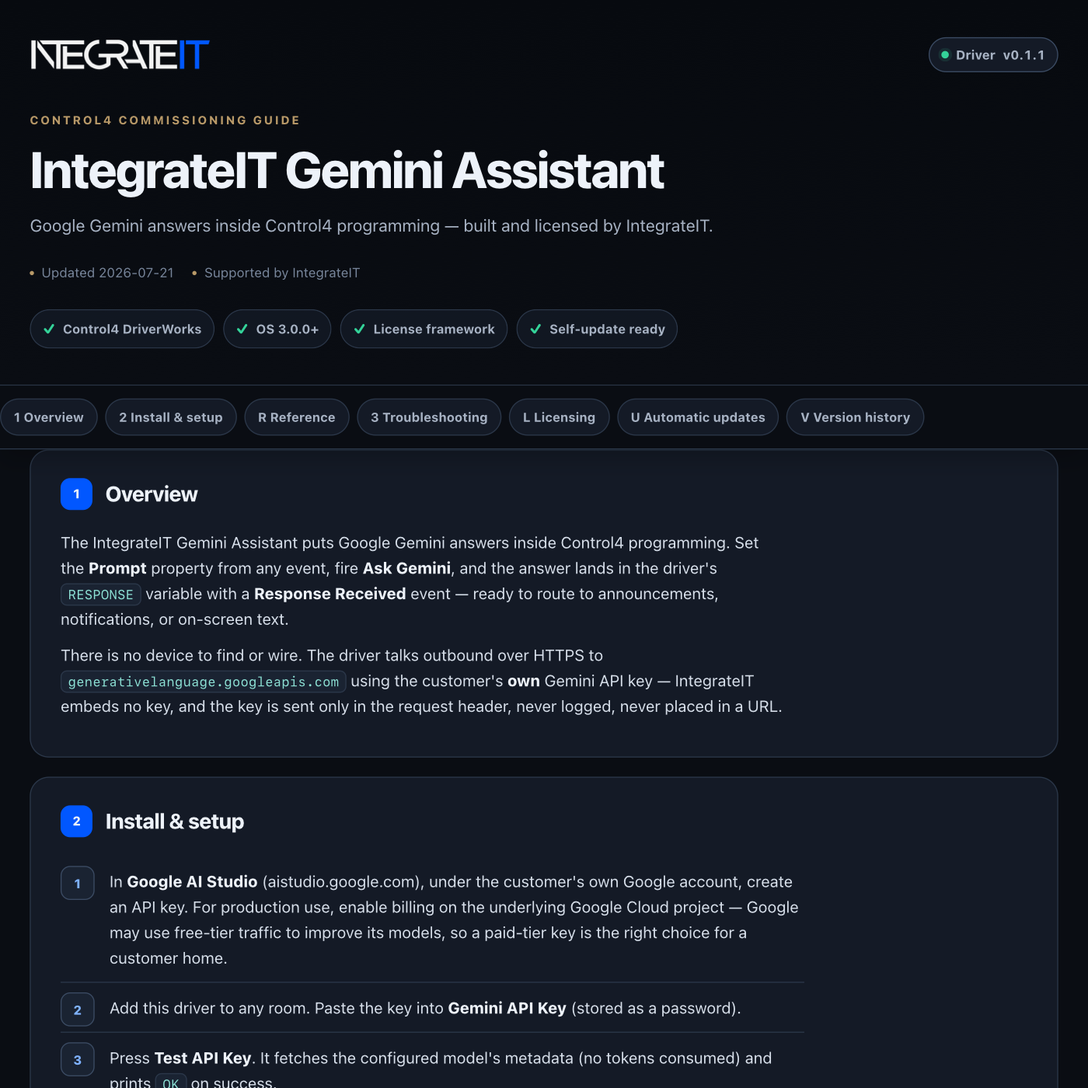
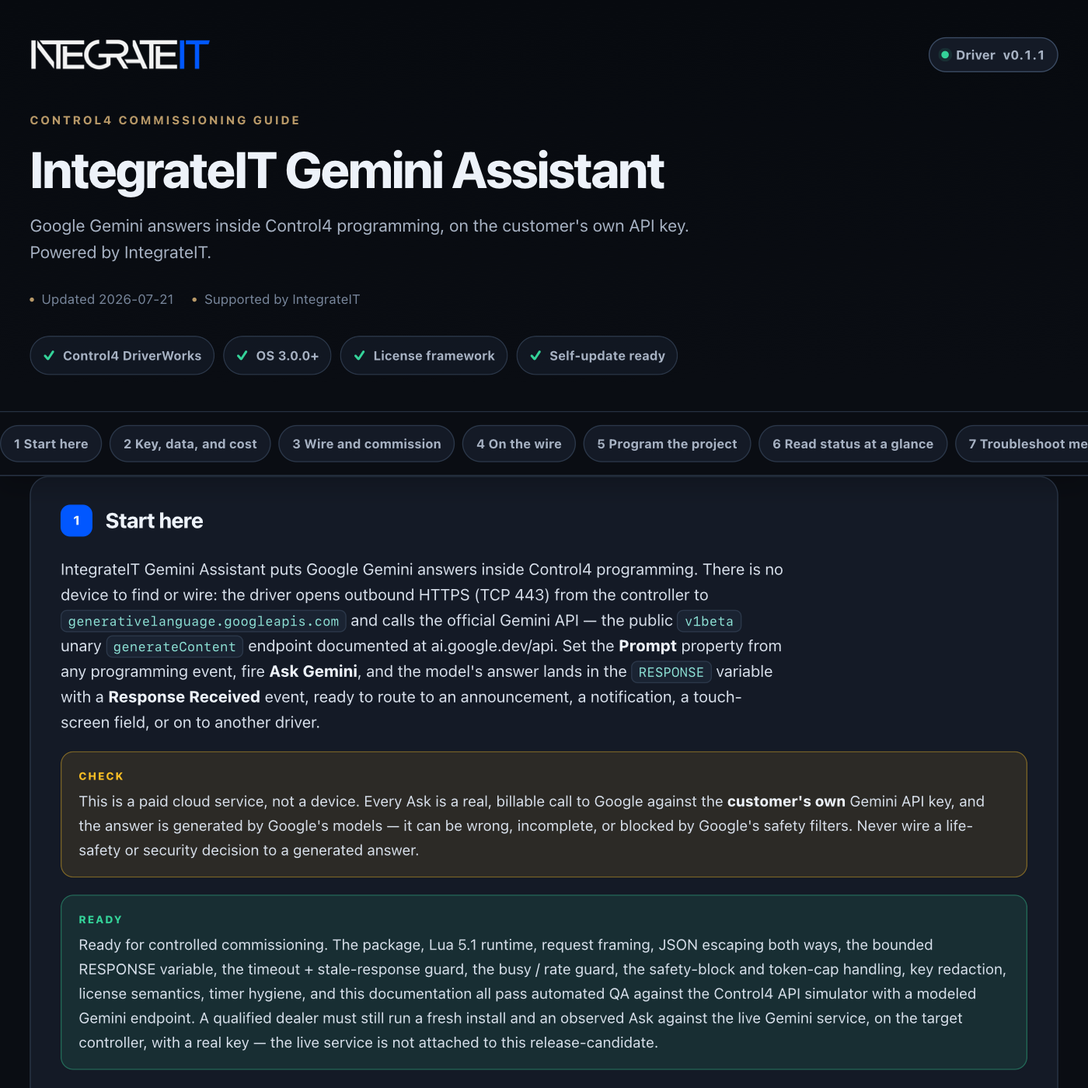
control4: publish driver channel (integrateit_gemini 0.1.2)

diff --git a/control4/integrateit_gemini/documentation.html b/control4/integrateit_gemini/documentation.html
@@ -179,13 +179,13 @@ td code{white-space:normal}
     <div class="wrap">
       <div class="brandbar">
[1 lines of base64/hex data omitted]
-        <span class="version"><span class="word">Driver</span> v0.1.1</span>
+        <span class="version"><span class="word">Driver</span> v0.1.2</span>
       </div>
       <p class="eyebrow">Control4 commissioning guide</p>
       <h1>IntegrateIT Gemini Assistant</h1>
-      <p class="sub">Google Gemini answers inside Control4 programming — built and licensed by IntegrateIT.</p>
+      <p class="sub">Google Gemini answers inside Control4 programming, on the customer's own API key. Powered by IntegrateIT.</p>
       <div class="meta">
-        <span>Updated 2026-07-21</span>
+        <span>Updated 2026-07-26</span>
         <span>Supported by IntegrateIT</span>
       </div>
       <div class="readiness" aria-label="Driver capabilities">
@@ -198,29 +198,140 @@ td code{white-space:normal}
   </header>
 
   <div class="toc-wrap">
-    <nav class="toc wrap" aria-label="Documentation sections"><a href="#overview">1 Overview</a><a href="#install">2 Install &amp; setup</a><a href="#reference">R Reference</a><a href="#troubleshooting">3 Troubleshooting</a><a href="#licensing">L Licensing</a><a href="#updates">U Automatic updates</a><a href="#changelog">V Version history</a></nav>
+    <nav class="toc wrap" aria-label="Documentation sections"><a href="#overview">1 Start here</a><a href="#trust-flow">2 Key, data, and cost</a><a href="#setup">3 Wire and commission</a><a href="#protocol">4 On the wire</a><a href="#programming">5 Program the project</a><a href="#status">6 Read status at a glance</a><a href="#troubleshooting">7 Troubleshoot methodically</a><a href="#trust">8 Ownership, privacy, and licensing</a><a href="#reference">R Reference</a><a href="#licensing">L Licensing</a><a href="#updates">U Automatic updates</a><a href="#changelog">V Version history</a></nav>
   </div>
 
   <main class="wrap">
     <section class="card" id="overview" data-card="overview">
-  <h2><span class="n">1</span> Overview</h2>
-  <p>The IntegrateIT Gemini Assistant puts Google Gemini answers inside Control4 programming. Set the <b>Prompt</b> property from any event, fire <b>Ask Gemini</b>, and the answer lands in the driver's <code>RESPONSE</code> variable with a <b>Response Received</b> event — ready to route to announcements, notifications, or on-screen text.</p>
-  <p>There is no device to find or wire. The driver talks outbound over HTTPS to <code>generativelanguage.googleapis.com</code> using the customer's <b>own</b> Gemini API key — IntegrateIT embeds no key, and the key is sent only in the request header, never logged, never placed in a URL.</p>
+  <h2><span class="n">1</span> Start here</h2>
+  <p>IntegrateIT Gemini Assistant puts Google Gemini answers inside Control4 programming. There is no device to find or wire: the driver opens outbound HTTPS (TCP 443) from the controller to <code>generativelanguage.googleapis.com</code> and calls the official Gemini API — the public <code>v1beta</code> unary <code>generateContent</code> endpoint documented at ai.google.dev/api. Set the <b>Prompt</b> property from any programming event, fire <b>Ask Gemini</b>, and the model's answer lands in the <code>RESPONSE</code> variable with a <b>Response Received</b> event, ready to route to an announcement, a notification, a touch-screen field, or on to another driver.</p>
+  <div class="note warn">This is a paid cloud service, not a device. Every Ask is a real, billable call to Google against the <b>customer's own</b> Gemini API key, and the answer is generated by Google's models — it can be wrong, incomplete, or blocked by Google's safety filters. Never wire a life-safety or security decision to a generated answer.</div>
+  <div class="note good">Ready for controlled commissioning. The package, Lua 5.1 runtime, request framing, JSON escaping both ways, the bounded RESPONSE variable, the timeout + stale-response guard, the busy / rate guard, the safety-block and token-cap handling, key redaction, license semantics, timer hygiene, and this documentation all pass automated QA against the Control4 API simulator with a modeled Gemini endpoint. A qualified dealer must still run a fresh install and an observed Ask against the live Gemini service, on the target controller, with a real key — the live service is not attached to this release-candidate.</div>
+  <p><b>What you get</b></p>
+  <ul>
+    <li>One <b>Ask Gemini</b> command that sends the <b>Prompt</b> property to the configured model and publishes the answer to the <code>RESPONSE</code> variable</li>
+    <li>Bring-your-own-key: the customer's own Gemini API key from Google AI Studio, sent only in the <code>x-goog-api-key</code> request header — never in a URL, never in a variable, never in any log line</li>
+    <li>An optional <b>System Instruction</b> that shapes every answer (persona, language, length, tone)</li>
+    <li>A <b>Max Response Tokens</b> cap that bounds answer length and per-request spend, with an honest <b>Response Truncated</b> event when the cap cuts an answer off</li>
+    <li><b>Response Received</b>, <b>Request Failed</b>, and <b>Response Truncated</b> events, plus a redacted <b>Last Result</b> that names every failure reason</li>
+    <li>A driver-side timeout with a stale-response guard, and a busy / <b>Min Request Interval</b> rate guard so a misfiring programming loop can never flood the API or run up the bill</li>
+    <li>A <b>Test API Key</b> action that proves the key, model, and egress with no tokens consumed</li>
+  </ul>
 </section>
 
-<section class="card" id="install" data-card="install">
-  <h2><span class="n">2</span> Install &amp; setup</h2>
+<section class="card" id="trust-flow" data-card="trust-flow">
+  <h2><span class="n">2</span> Key, data, and cost</h2>
+  <p>This driver is honest about the fact that it is a thin, safe pipe to someone else's paid cloud. Three facts govern it:</p>
+  <ul>
+    <li><b>The key is the customer's.</b> Google's API Terms require the account holder to bring their own key, so <b>Gemini API Key</b> is a password property the customer fills from their own Google AI Studio account. IntegrateIT embeds no key, proxies nothing, and shares nothing. The key travels only in the <code>x-goog-api-key</code> header — it is never placed in the URL, never written to a variable, and never printed, not even with <b>Debug Mode → Print</b> on. Diagnostics show only non-sensitive fields — the model, request/response sizes, and HTTP status — never the key, the prompt, or the answer.</li>
+    <li><b>Prompt data leaves the LAN.</b> When you Ask, the <b>Prompt</b> and, if set, the <b>System Instruction</b> are sent to Google under the customer's key, and Google returns the answer. That is the whole point of a cloud model, but it means anything you put in the prompt is disclosed to Google under the customer's account — treat it accordingly and keep private data out of prompts you would not send to Google.</li>
+    <li><b>The customer pays, and the driver caps the bleed.</b> Every Ask is billed to the customer's own Google account at Google's per-token pricing. The driver cannot see or set that price, but it bounds exposure: one request runs at a time, an Ask inside the <b>Min Request Interval</b> window is refused locally, and <b>Max Response Tokens</b> caps output cost per call. Set a real ceiling in the Google Cloud console — the driver's guards stop runaway loops, not a mispriced month.</li>
+  </ul>
+  <p>An answer that Google cut off at the token cap, and a prompt or answer Google blocked, are both surfaced as exactly what they are (see <b>On the wire</b> and <b>Troubleshoot</b>), never dressed up as a clean success.</p>
+</section>
+
+<section class="card" id="setup" data-card="setup">
+  <h2><span class="n">3</span> Wire and commission</h2>
   <ol class="steps">
-    <li>In <b>Google AI Studio</b> (aistudio.google.com), under the customer's own Google account, create an API key. For production use, enable billing on the underlying Google Cloud project — Google may use free-tier traffic to improve its models, so a paid-tier key is the right choice for a customer home.</li>
-    <li>Add this driver to any room. Paste the key into <b>Gemini API Key</b> (stored as a password).</li>
-    <li>Press <b>Test API Key</b>. It fetches the configured model's metadata (no tokens consumed) and prints <code>OK</code> on success.</li>
+    <li>In <b>Google AI Studio</b> (aistudio.google.com), under the customer's own Google account, create an API key. For production, enable billing on the underlying Google Cloud project — Google may use free-tier traffic to improve its models, so a paid-tier key is the right choice for a customer home.</li>
+    <li>Add <b>IntegrateIT Gemini Assistant</b> to any room. Paste the key into <b>Gemini API Key</b> (a password property).</li>
+    <li>Leave <b>Model</b> at <code>gemini-2.5-flash</code> or set the model code you intend to use. Only letters, digits, dots, and dashes are accepted — anything else is refused before any request, so a stray slash or colon can never reach the URL.</li>
+    <li>Run the <b>Test API Key</b> action. It GETs the model's metadata with the key in the header and prints <code>OK — key accepted; model … is available.</code> on success, consuming no tokens. A failure prints the exact reason (rejected key, model not found, or no network).</li>
     <li>Optionally set a <b>System Instruction</b> — a standing instruction sent with every request ("Answer in one short sentence", "Reply in Spanish", a persona). Tune <b>Max Response Tokens</b> to cap answer length and per-request spend.</li>
-    <li>From programming: write the question into the <b>Prompt</b> property, then fire the <b>Ask Gemini</b> command. When <b>Response Received</b> fires, read the answer from the <code>RESPONSE</code> variable (capped at 4000 characters; <b>Last Response</b> shows a short preview).</li>
+    <li>From programming, write the question into the <b>Prompt</b> property, then fire the <b>Ask Gemini</b> command. When <b>Response Received</b> fires, read the answer from the <code>RESPONSE</code> variable; <b>Last Response</b> shows a short preview and <b>Last Result</b> reads <code>OK (…)</code>.</li>
   </ol>
-  <div class="note">One request runs at a time. An Ask fired while a request is in flight, or inside the <b>Min Request Interval (s)</b> window, fails locally with a <b>Request Failed</b> event instead of calling Google — so a misfiring programming loop can never flood the API or run up the customer's bill.</div>
+  <div class="note">There is no prompt parameter on the command — set the <b>Prompt</b> property first, then fire <b>Ask Gemini</b>. An Ask fired with no key, a malformed model, or an empty prompt fails locally with a <b>Request Failed</b> event and makes no call at all. To prove a full round-trip during commissioning without wiring any programming, set <b>Prompt</b>, run the <b>Ask Gemini Now</b> action from the Actions tab, and watch <b>Last Result</b> turn <code>OK (…)</code>.</div>
+</section>
+
+<section class="card" id="protocol" data-card="protocol">
+  <h2><span class="n">4</span> On the wire</h2>
+  <p>Turn on <b>Debug Mode → Print</b> to watch each request in the Lua output window. The log lines carry the model, the HTTP status code, request and response byte counts, and the reason for any local refusal — never the key, the prompt, or the answer.</p>
+  <p><b>Ask (POST):</b></p>
+  <pre><code>POST https://generativelanguage.googleapis.com/v1beta/models/&lt;model&gt;:generateContent
+x-goog-api-key: &lt;the customer's key&gt;
+Content-Type: application/json
+
+{"contents":[{"role":"user","parts":[{"text":"&lt;prompt&gt;"}]}],
+ "systemInstruction":{"parts":[{"text":"&lt;system&gt;"}]},
+ "generationConfig":{"maxOutputTokens":&lt;N&gt;}}</code></pre>
+  <p>The <code>systemInstruction</code> block is omitted entirely when <b>System Instruction</b> is blank. Any quote, backslash, or control character in the prompt or instruction is JSON-escaped, so any text is a valid request.</p>
+  <table>
+    <tr><th>Response shape</th><th>Driver reading</th></tr>
+    <tr><td><code>200</code>, text in <code>candidates[].content.parts[].text</code></td><td>Answer published to <code>RESPONSE</code> (multi-part answers concatenate in order); <b>Response Received</b> fires</td></tr>
+    <tr><td><code>200</code>, <code>finishReason: "MAX_TOKENS"</code> with text</td><td>Answer published, <b>Response Truncated</b> fires alongside <b>Response Received</b>; Last Result adds <code>cut by token cap</code></td></tr>
+    <tr><td><code>200</code>, <code>finishReason: "MAX_TOKENS"</code> with no text</td><td>A thinking model spent its whole budget before any visible text — <b>Request Failed</b>, Last Result names the Max Response Tokens cap to raise</td></tr>
+    <tr><td><code>200</code>, <code>promptFeedback.blockReason</code> and no candidates</td><td>Prompt-level safety block — <b>Request Failed</b>, <code>blocked by safety filter (&lt;reason&gt;)</code></td></tr>
+    <tr><td><code>200</code>, candidate <code>finishReason</code> SAFETY / RECITATION / BLOCKLIST / PROHIBITED_CONTENT / SPII / IMAGE_SAFETY, no parts</td><td>Output-level safety block — <b>Request Failed</b>, <code>blocked by safety filter (&lt;reason&gt;)</code> (never a bland "empty response")</td></tr>
+    <tr><td>non-2xx <code>{"error":{"code","message","status"}}</code></td><td><b>Request Failed</b>, <code>HTTP &lt;code&gt;: &lt;message&gt;</code> (message clipped to one line)</td></tr>
+    <tr><td>transport failure (code 0)</td><td><b>Request Failed</b>, <code>no response (network error)</code></td></tr>
+  </table>
+  <p><b>Test API Key</b> GETs <code>…/v1beta/models/&lt;model&gt;</code> with the same header and reads the returned <code>displayName</code> — a read-only check that proves the key, model, and egress without consuming tokens.</p>
+  <p><b>Guards on every Ask:</b> one request is in flight at a time; a second Ask while one is running fails locally with <code>Failed: busy (previous request still running)</code>. The <b>Min Request Interval</b> quiet window runs from request start and refuses an Ask inside it with <code>Failed: rate limited (Min Request Interval)</code>. The <b>Timeout (s)</b> timer fails a request that never completes, and a sequence guard makes a late answer for that request a no-op — it never fires events out of order or overwrites a newer result.</p>
+</section>
+
+<section class="card" id="programming" data-card="programming">
+  <h2><span class="n">5</span> Program the project</h2>
+  <table>
+    <tr><th>Event</th><th>Fires when</th></tr>
+    <tr><td><code>Response Received</code></td><td>Gemini answered; the <code>RESPONSE</code> variable holds the bounded answer text</td></tr>
+    <tr><td><code>Response Truncated</code></td><td>The answer hit the <b>Max Response Tokens</b> cap (finishReason MAX_TOKENS); fires alongside Response Received</td></tr>
+    <tr><td><code>Request Failed</code></td><td>Bad key or model, an API error, a safety block, a no-text token-cap stop, a timeout, the rate guard, or no network — <code>Last Result</code> carries the redacted reason</td></tr>
+  </table>
+  <table>
+    <tr><th>Variable</th><th>Type</th><th>Meaning</th></tr>
+    <tr><td><code>RESPONSE</code></td><td>STRING</td><td>The answer text, bounded to 4000 UTF-8 characters (cut on a codepoint boundary, never mid-character)</td></tr>
+    <tr><td><code>LAST_STATUS</code></td><td>STRING</td><td>Mirrors <b>Last Result</b>: <code>None</code>, <code>OK (…)</code>, or <code>Failed: &lt;reason&gt;</code></td></tr>
+  </table>
+  <p>Recipes, using this driver's actual names:</p>
+  <ul>
+    <li><b>Voice/keypad Q&amp;A</b> — When a keypad button is pressed → set the <b>Prompt</b> property to your question and fire <b>Ask Gemini</b>. On <b>Response Received</b> → announce or TTS the <code>RESPONSE</code> variable.</li>
+    <li><b>Scheduled one-liner</b> — A morning schedule fires → set <b>System Instruction</b> to "answer in one short sentence", set <b>Prompt</b> to "give today's weather for …", fire <b>Ask Gemini</b> → on <b>Response Received</b>, push <code>RESPONSE</code> to a touch-screen text field or a notification.</li>
+    <li><b>Handle the honest failures</b> — On <b>Request Failed</b> → read <b>Last Result</b> and announce a fallback or log it. On <b>Response Truncated</b> → the answer is a partial; raise <b>Max Response Tokens</b> or add "answer briefly" to the System Instruction.</li>
+  </ul>
+  <p>Ask is license-gated: under Strict enforcement an unlicensed controller sends nothing and fires no event (silent by design — read <b>License Status</b>). The read-only <b>Test API Key</b> and <b>Print Configuration</b> actions are never gated. The default Lenient mode allows commissioning while the license nag stays visible.</p>
+</section>
+
+<section class="card" id="status" data-card="status">
+  <h2><span class="n">6</span> Read status at a glance</h2>
+  <table>
+    <tr><th>Property / variable</th><th>Healthy result</th><th>What it tells you</th></tr>
+    <tr><td><code>Last Result</code></td><td><code>OK (&lt;n&gt; bytes)</code></td><td>The last Ask succeeded; a <code>Failed: &lt;reason&gt;</code> names exactly what went wrong</td></tr>
+    <tr><td><code>Last Response</code></td><td>First 120 characters of the answer</td><td>A preview; the full bounded answer is in <code>RESPONSE</code></td></tr>
+    <tr><td><code>RESPONSE</code></td><td>The answer text</td><td>Bounded at 4000 characters; a very long answer reads <code>variable capped</code> in Last Result</td></tr>
+    <tr><td><code>Status</code></td><td><code>Ready</code>, then <code>Answer received</code></td><td><code>Asking Gemini…</code> mid-flight and <code>Request failed: &lt;reason&gt;</code> after a failure; <code>Testing API key…</code>, <code>API key OK</code>, <code>API key rejected (HTTP &lt;code&gt;)</code>, <code>Model not found</code>, or <code>No response from Google</code> from <b>Test API Key</b>; <code>Configuration printed</code> after <b>Print Configuration</b>; <code>Unlicensed - control disabled (Strict enforcement)</code> when the license gate is blocking; a hint line while the key or model is unset or malformed</td></tr>
+    <tr><td><code>LAST_STATUS</code></td><td>Matches <code>Last Result</code></td><td>The variable form for programming to branch on</td></tr>
+  </table>
+  <p><b>Print Configuration</b> writes the endpoint, whether the key is set and its length (never the key itself), the model, token cap, system-instruction length, timeout, and min interval to the Lua output window. It never prints the key.</p>
+</section>
+
+<section class="card" id="troubleshooting" data-card="troubleshooting">
+  <h2><span class="n">7</span> Troubleshoot methodically</h2>
+  <table>
+    <tr><th>Symptom</th><th>Likely cause</th><th>Fix</th></tr>
+    <tr><td>Nothing happens, no event fires</td><td>Strict enforcement without a validated license</td><td>Check <b>License Status</b>; Lenient mode keeps Ask enabled during commissioning</td></tr>
+    <tr><td><code>Failed: no valid API key set</code></td><td>The key property is blank, too short, or has whitespace</td><td>Re-copy the key from Google AI Studio into <b>Gemini API Key</b></td></tr>
+    <tr><td><code>Failed: empty prompt</code> / <code>Failed: model must be letters, digits, dots, dashes</code></td><td>Ask fired before <b>Prompt</b> was written, or <b>Model</b> carries a slash, colon, or space</td><td>Set <b>Prompt</b> from programming before firing <b>Ask Gemini</b>; put a bare model code in <b>Model</b> (e.g. <code>gemini-2.5-flash</code>)</td></tr>
+    <tr><td><code>Failed: HTTP 400/401/403: API key not valid…</code></td><td>The key was revoked, restricted, or mistyped</td><td>Run <b>Test API Key</b>; create a fresh key in Google AI Studio if it still fails</td></tr>
+    <tr><td><code>Failed: HTTP 404</code> / model not found</td><td><b>Model</b> names a retired or misspelled model</td><td>Check the current list at ai.google.dev and update <b>Model</b> (e.g. <code>gemini-2.5-flash</code>)</td></tr>
+    <tr><td><code>Failed: HTTP 429…</code></td><td>Google's rate or quota limit for this key</td><td>Raise <b>Min Request Interval (s)</b>, reduce Ask frequency, or check the project quota in Google Cloud</td></tr>
+    <tr><td><code>Failed: no response (network error)</code></td><td>Controller has no path to the internet</td><td>Verify outbound HTTPS (TCP 443) to <code>generativelanguage.googleapis.com</code> from the controller's VLAN</td></tr>
+    <tr><td><code>Failed: timed out after Ns</code></td><td>Slow network or a long answer against a short timeout</td><td>Raise <b>Timeout (s)</b> and/or lower <b>Max Response Tokens</b></td></tr>
+    <tr><td><code>Failed: blocked by safety filter (…)</code></td><td>Google blocked the prompt or the answer</td><td>Rephrase the prompt; the block reason (SAFETY, RECITATION, …) comes from Google, not the driver</td></tr>
+    <tr><td><code>Failed: … hit the Max Response Tokens cap</code></td><td>A thinking model used its whole budget before any text</td><td>Raise <b>Max Response Tokens</b></td></tr>
+    <tr><td><b>Response Truncated</b> fires</td><td>The answer reached the token cap</td><td>Raise <b>Max Response Tokens</b>, or add "answer briefly" to the System Instruction</td></tr>
+    <tr><td><code>Failed: busy (previous request still running)</code> / <code>Failed: rate limited (Min Request Interval)</code></td><td>An Ask fired while one was in flight or inside the quiet window</td><td>Expected — space the Asks out; the guard protects the bill</td></tr>
+  </table>
+  <p>If a request still fails after the key, model, network, and quota all check out, capture the Lua output with <b>Debug Mode → Print</b> and contact IntegrateIT support at support@integrateit.tech · (913) 804-7575.</p>
+</section>
+
+<section class="card" id="trust" data-card="trust">
+  <h2><span class="n">8</span> Ownership, privacy, and licensing</h2>
+  <p>This package is an original IntegrateIT clean-room driver built to Google's public Gemini API reference (ai.google.dev/api). It bundles no Google runtime, source, brand assets, key, or trial account. Google, Gemini, and Google AI Studio are trademarks of Google LLC; IntegrateIT is not affiliated with Google, and this driver is not a Google product. Driver engineering, Control4 integration, documentation, QA, licensing, updates, and support are provided by IntegrateIT.</p>
+  <p>What leaves the controller is exactly what you Ask: the <b>Prompt</b> and optional <b>System Instruction</b> go to <code>generativelanguage.googleapis.com</code> under the customer's own API key, and Google returns the answer. Nothing is sent anywhere else. The key lives only in the <b>Gemini API Key</b> password property, travels only in the <code>x-goog-api-key</code> header, and is never written to a variable or the log — not even in Debug mode. The shared IntegrateIT license and update services use the controller identity, driver slug, version, configured license key, and update channel as documented in the reference below.</p>
+  <p>Lenient mode allows commissioning without an activated key and keeps <b>License Status</b> visible. Strict mode blocks the Ask command until the Ops Portal has minted and validated a key for this controller; the read-only Test API Key and Print Configuration actions continue either way. Installing this package does not itself mint or activate a controller license.</p>
 <section class="card" id="reference" data-card="reference">
   <h2><span class="n">R</span> Reference</h2>
-  <p>Generated from the driver manifest at build time — always matches this build (v0.1.1).</p>
+  <p>Generated from the driver manifest at build time — always matches this build (v0.1.2).</p>
   <h3>Properties</h3>
   <table>
     <tr><th>Property</th><th>Type</th><th>Default</th><th>Description</th></tr>
@@ -275,21 +386,6 @@ td code{white-space:normal}
   </table>
 </section>
 </section>
-
-<section class="card" id="troubleshooting" data-card="troubleshooting">
-  <h2><span class="n">3</span> Troubleshooting</h2>
-  <table>
-    <tr><th>Symptom</th><th>Likely cause</th><th>Fix</th></tr>
-    <tr><td>Last Result: "no valid API key set"</td><td>The key property is blank or contains whitespace</td><td>Re-copy the key from Google AI Studio into <b>Gemini API Key</b>.</td></tr>
-    <tr><td>Last Result: "HTTP 400/401/403: API key not valid…"</td><td>The key was revoked, restricted, or mistyped</td><td>Run <b>Test API Key</b>; create a fresh key in Google AI Studio if it still fails.</td></tr>
-    <tr><td>Last Result: "HTTP 404" or Model not found</td><td>The <b>Model</b> property names a retired or misspelled model</td><td>Check the current model list at ai.google.dev and update <b>Model</b> (e.g. <code>gemini-2.5-flash</code>).</td></tr>
-    <tr><td>Last Result: "HTTP 429…"</td><td>Google's rate or quota limit for this key</td><td>Raise <b>Min Request Interval (s)</b>, reduce Ask frequency, or check the project's quota in Google Cloud.</td></tr>
-    <tr><td>Last Result: "timed out after Ns"</td><td>Slow network or a long answer against a short timeout</td><td>Raise <b>Timeout (s)</b>, lower <b>Max Response Tokens</b>, and verify controller internet access.</td></tr>
-    <tr><td>Last Result: "blocked by safety filter (…)"</td><td>Google's safety filters blocked the prompt or answer</td><td>Rephrase the prompt; the block reason (e.g. SAFETY) comes from Google, not the driver.</td></tr>
-    <tr><td>Response Truncated fires</td><td>The answer hit the <b>Max Response Tokens</b> cap</td><td>Raise the cap, or add "answer briefly" to the System Instruction.</td></tr>
-  </table>
-  <div class="note">Turn on <b>Debug Mode → Print</b> to watch each request in the Lua output window. The log only ever shows the model, byte counts, and HTTP status — the API key, prompt, and answer text are never printed.</div>
-</section>
 <section class="card" id="licensing" data-card="licensing">
   <h2><span class="n">L</span> Licensing</h2>
   <p>This driver is licensed <b>per controller</b>. Each license key locks to one controller's
@@ -337,7 +433,9 @@ td code{white-space:normal}
     <section class="card" id="changelog" data-card="changelog">
   <h2><span class="n">V</span> Version history</h2>
   <div class="chg">
-    <div class="rel"><b>v0.1.1</b> <span class="pill green">current</span><span class="d">2026-07-21</span>
+    <div class="rel"><b>v0.1.2</b> <span class="pill green">current</span><span class="d">2026-07-26</span>
+      <ul><li>Documentation rebuilt to the IntegrateIT commissioning-guide standard: uniform sections, honest contracts, verified claim-by-claim against the code.</li></ul></div>
+    <div class="rel"><b>v0.1.1</b><span class="d">2026-07-21</span>
       <ul><li>Honest empty-answer handling: an output-side safety/policy block (a candidate returned with finishReason SAFETY / RECITATION / BLOCKLIST / PROHIBITED_CONTENT / SPII / IMAGE_SAFETY and no text parts) now surfaces as "blocked by safety filter (&lt;reason&gt;)" instead of a generic "empty response". Previously only a prompt-level block (promptFeedback.blockReason) was named; a censored *answer* read as a bland empty response and looked like a network fault.</li><li>A thinking model that spends its whole token budget before emitting any text (finishReason MAX_TOKENS with no parts) now reports "hit the Max Response Tokens cap; raise it" rather than "empty response", so the fix is obvious. All of these still fail closed with a Request Failed event and never land text in RESPONSE.</li></ul></div>
     <div class="rel"><b>v0.1.0</b><span class="d">2026-07-20</span>
       <ul><li>Initial release: bring-your-own-key cloud driver for the official Google Gemini API (v1beta unary generateContent).</li><li>Ask Gemini command sends the Prompt with an optional System Instruction and a Max Response Tokens cap; the bounded answer (4000 chars) lands in the RESPONSE variable with Response Received / Response Truncated / Request Failed events.</li><li>Request timeout with a stale-response guard, busy + min-interval rate guard, hard model-name allowlist (no URL injection), and the API key confined to the x-goog-api-key header — never logged, never in a URL.</li><li>Test API Key action verifies key + model + egress via model metadata without consuming tokens.</li></ul></div>

diff --git a/control4/integrateit_gemini/CHANGELOG.md b/control4/integrateit_gemini/CHANGELOG.md
@@ -1,5 +1,8 @@
 # Changelog — IntegrateIT Gemini Assistant
 
+## [0.1.2] - 2026-07-26
+- Documentation rebuilt to the IntegrateIT commissioning-guide standard: uniform sections, honest contracts, verified claim-by-claim against the code.
+
 ## [0.1.1] - 2026-07-21
 - Honest empty-answer handling: an output-side safety/policy block (a candidate returned with finishReason SAFETY / RECITATION / BLOCKLIST / PROHIBITED_CONTENT / SPII / IMAGE_SAFETY and no text parts) now surfaces as "blocked by safety filter (<reason>)" instead of a generic "empty response". Previously only a prompt-level block (promptFeedback.blockReason) was named; a censored *answer* read as a bland empty response and looked like a network fault.
 - A thinking model that spends its whole token budget before emitting any text (finishReason MAX_TOKENS with no parts) now reports "hit the Max Response Tokens cap; raise it" rather than "empty response", so the fix is obvious. All of these still fail closed with a Request Failed event and never land text in RESPONSE.
